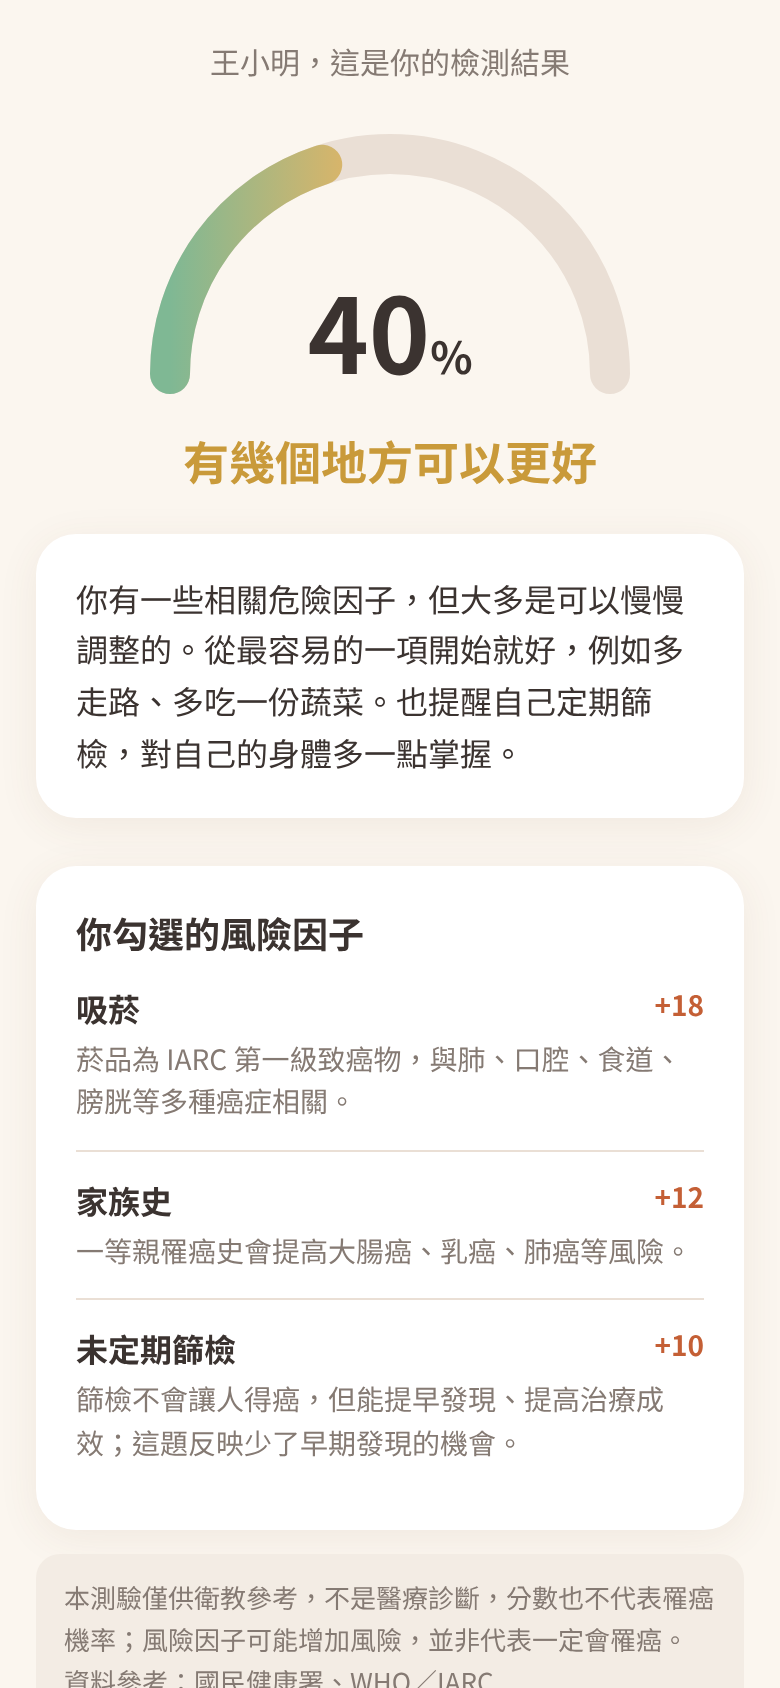
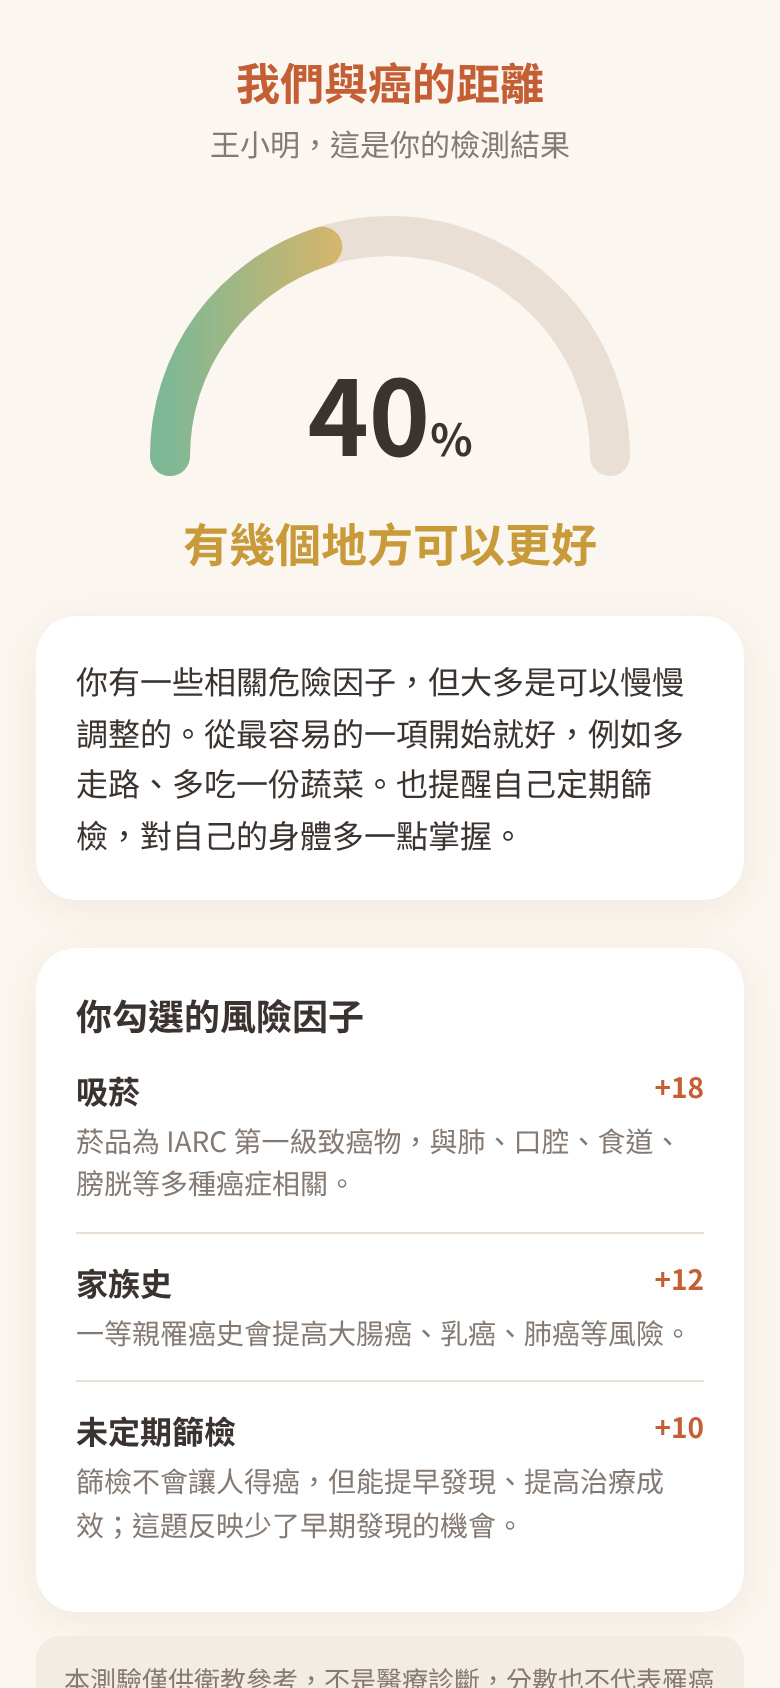
Rename title to 我們與癌的距離

Changed region(s): [[0.0308, 0.0308, 0.9538, 1.0], [0.6769, 0.6161, 0.7385, 0.6777]]

diff --git a/index.html b/index.html
@@ -3,7 +3,7 @@
 <head>
 <meta charset="UTF-8">
 <meta name="viewport" content="width=device-width,initial-scale=1,viewport-fit=cover">
-<title>你離癌症有多近？10 題生活風險檢測</title>
+<title>我們與癌的距離｜10 題生活風險檢測</title>
 <meta name="description" content="10 題生活習慣小測驗，了解可調整的癌症風險因子。僅供衛教參考。">
 <style>
 :root{--bg:#fbf6ef;--card:#fff;--ink:#3b3330;--muted:#857a73;--pri:#d9774b;--pri2:#c45f35;--soft:#f6e6da;--green:#5f9e7a;--line:#eadfd5}
@@ -61,6 +61,7 @@ input:focus{outline:none;border-color:var(--pri)}
 .foot{text-align:center;font-size:13px;color:var(--muted);margin-top:18px}
 #imgBox{display:none;text-align:center}
 #imgBox img{width:100%;border-radius:14px;box-shadow:0 4px 18px rgba(0,0,0,.12)}
+.rtitle{text-align:center;font-size:22px;font-weight:800;color:var(--pri2);margin:4px 0 2px}
 h2{font-size:18px;margin:0 0 10px}
 </style>
 </head>
@@ -69,7 +70,7 @@ h2{font-size:18px;margin:0 0 10px}
 
 <section class="screen active" id="s-intro">
   <div><span class="badge">生活風險小檢測 · 約 1 分鐘</span></div>
-  <h1>你離癌症有多近？<small>10 題生活風險檢測</small></h1>
+  <h1>我們與癌的距離<small>10 題生活風險檢測</small></h1>
   <p>很多癌症風險，其實藏在每天的生活習慣裡。用 10 個簡單的是／否問題，看看有哪些地方可以照顧得更好。</p>
   <div class="card">
     <label for="name">怎麼稱呼你？（選填）</label>
@@ -94,6 +95,7 @@ h2{font-size:18px;margin:0 0 10px}
 </section>
 
 <section class="screen" id="s-result">
+  <div class="rtitle">我們與癌的距離</div>
   <div class="hi" id="hi">你的檢測結果</div>
   <div class="gauge">
     <svg viewBox="0 0 260 150">
@@ -177,7 +179,7 @@ function drawCard(){
   x.fillStyle="#f6e6da";x.beginPath();x.arc(980,90,200,0,7);x.fill();x.beginPath();x.arc(60,1300,160,0,7);x.fill();
   x.fillStyle="#fff";rr(x,60,60,960,1230,40);x.fill();
   x.textAlign="center";x.fillStyle="#c45f35";x.font="700 34px "+FONT;x.fillText("10 題生活風險檢測",540,150);
-  x.fillStyle="#3b3330";x.font="800 60px "+FONT;x.fillText("你離癌症有多近？",540,230);
+  x.fillStyle="#3b3330";x.font="800 60px "+FONT;x.fillText("我們與癌的距離",540,230);
   let y=230;if(name){x.font="500 36px "+FONT;x.fillStyle="#857a73";x.fillText(name+" 的檢測結果",540,295);y=295}
   const cy=y+260;x.lineCap="round";x.lineWidth=36;x.strokeStyle="#eadfd5";x.beginPath();x.arc(540,cy,190,Math.PI,2*Math.PI);x.stroke();
   const g=x.createLinearGradient(350,0,730,0);g.addColorStop(0,"#7fb894");g.addColorStop(.5,"#f0b45f");g.addColorStop(1,"#d9674b");
